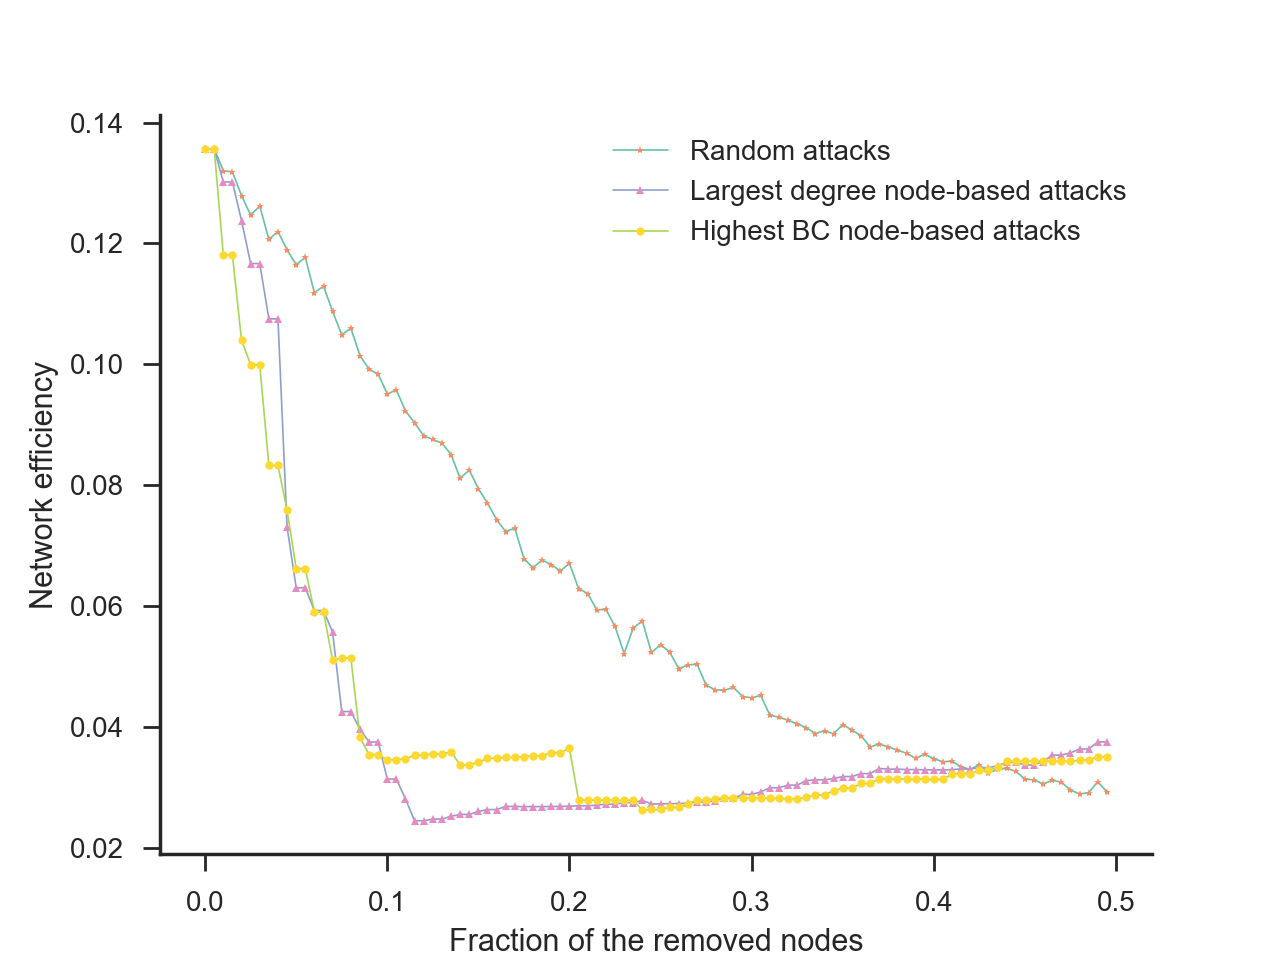
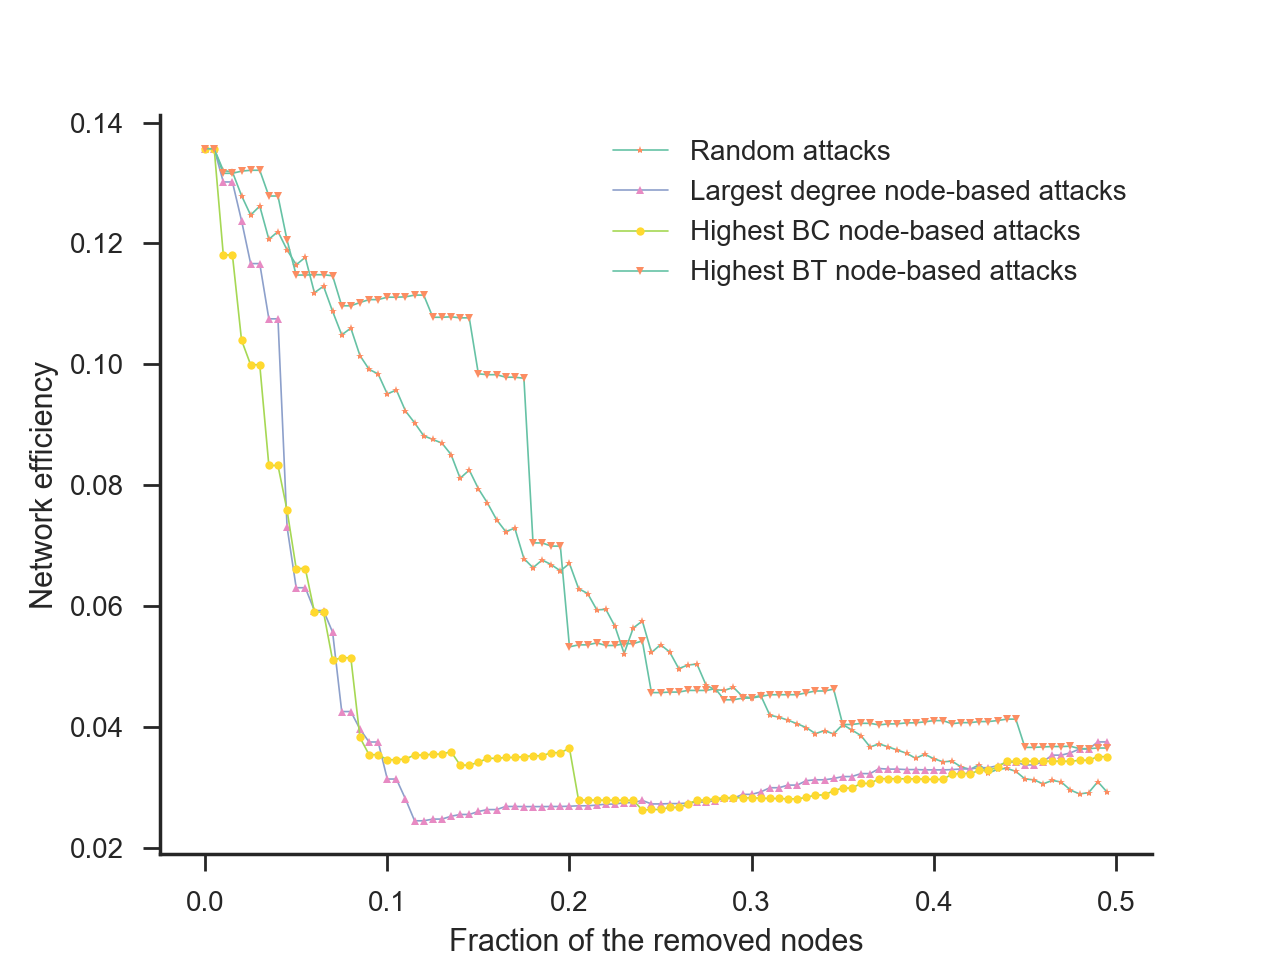
add more

diff --git a/code/chart/attack_chart.py b/code/chart/attack_chart.py
@@ -69,6 +69,7 @@ def chart():
     random_efficiency = list()
     largest_degree_efficiency = list()
     highest_bc_efficiency = list()
+    highest_bt_efficiency = list()
     with open(os.path.join(base_dir, 'shanghai_attack/random_attack.csv'), 'r') as f:
         r = csv.DictReader(f)
         for row in r:
@@ -100,14 +101,25 @@ def chart():
     p5, = plt.plot(x3, y3, linewidth=line_width)
     p6, = plt.plot(x3, y3, 'o', ms=marker_size)
 
+    fraction.clear()
+    with open(os.path.join(base_dir, 'shanghai_attack/highest_bt_attack.csv'), 'r') as f:
+        r = csv.DictReader(f)
+        for row in r:
+            fraction.append(float(row['fraction']))
+            highest_bt_efficiency.append(float(row['efficiency']))
+    x4, y4 = zip(*sorted(zip(fraction, highest_bt_efficiency)))
+    p7, = plt.plot(x4, y4, linewidth=line_width)
+    p8, = plt.plot(x4, y4, 'v', ms=marker_size)
+
     ax = plt.gca()
     ax.spines['top'].set_color('none')
     ax.spines['right'].set_color('none')
     plt.xlabel('Fraction of the removed nodes')
     plt.ylabel('Network efficiency')
     ax.legend(
-        [(p1, p2), (p3, p4), (p5, p6)],
-        ['Random attacks', 'Largest degree node-based attacks', 'Highest BC node-based attacks']
+        [(p1, p2), (p3, p4), (p5, p6), (p7, p8)],
+        ['Random attacks', 'Largest degree node-based attacks', 'Highest BC node-based attacks',
+         'Highest BT node-based attacks']
     )
 
     plt.show()

diff --git a/code/attack.py b/code/attack.py
@@ -1,9 +1,15 @@
 # -*- coding: utf-8 -*-
 
+import os
 from graph import get_chengdu_subway_graph, get_shanghai_subway_graph
 from random import choice
 from betweenness_centrality_list import bc_list
 from util.breadth_tree import get_bt_list
+from networkx.algorithms.efficiency import global_efficiency
+import csv
+
+base_dir = os.path.join(os.path.dirname(__file__), '../data/')
+d = 0.005
 
 
 def random_attack(fraction=0.0):
@@ -105,3 +111,19 @@ def highest_bt_attack_list(G, fraction=0.0):
     for i in range(0, remove_num):
         result.append(bt_list[i]['node'])
     return result
+
+
+if __name__ == "__main__":
+    with open(os.path.join(base_dir, 'shanghai_attack/highest_bt_attack.csv'), 'a') as f:
+        result = list()
+        for i in range(0, 100):
+            attack_fraction = d * i
+            print("Attack fraction: {}".format(attack_fraction))
+            g = get_shanghai_subway_graph()
+            attack_list = highest_bt_attack_list(g, fraction=attack_fraction)
+            for node in attack_list:
+                g.remove_node(node)
+            result.append({'fraction': attack_fraction, 'efficiency': global_efficiency(g)})
+        w = csv.DictWriter(f, ['fraction', 'efficiency'])
+        w.writeheader()
+        w.writerows(result)
